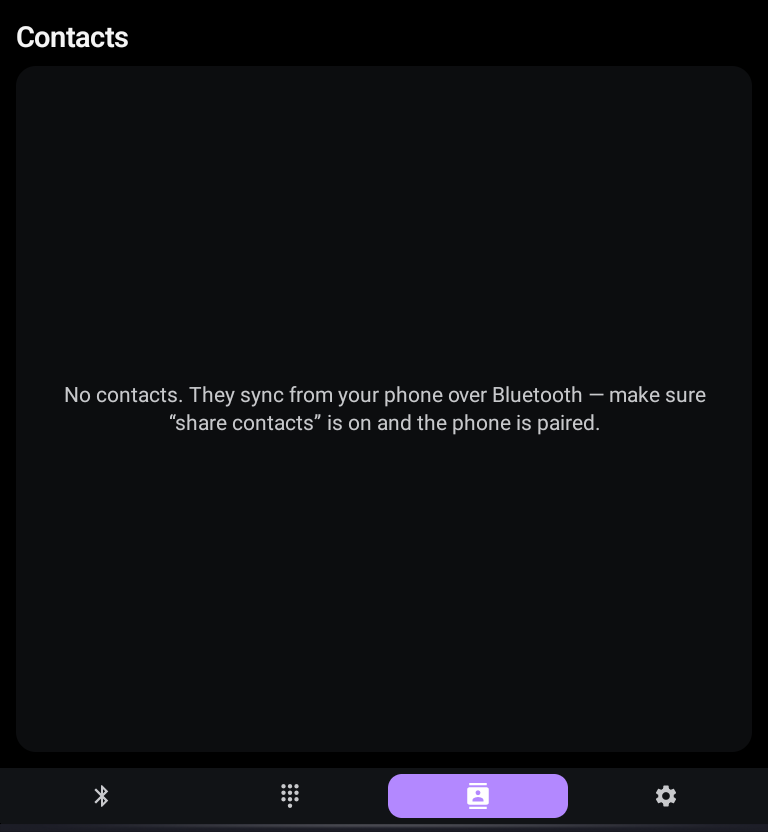
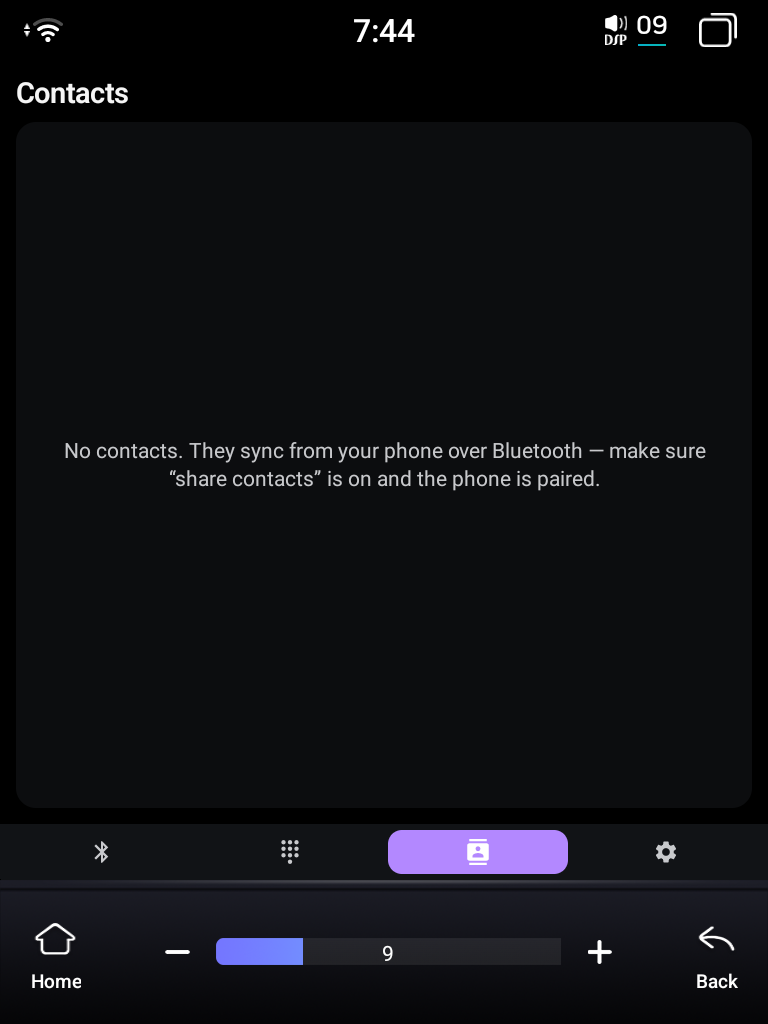
Default theme to System; full uncropped screenshots (demo devices, "Toyota Rav4")
- Theme now defaults to System (follow the unit's day/night) instead of Dark.
- Screenshots: stop cropping — all four are now full device frames (status +
  nav bars). The settings shot shows the demo paired devices (iPhone 17 Pro /
  Pixel 10, placeholder MACs) and broadcast name "Toyota Rav4". Dropped the
  separate light-mode shot. README regrouped into a 2x2 of full screenshots.

Builds on the other instance's Material You / custom-color-picker work (6ba02f8).

diff --git a/app/src/main/kotlin/com/fytbt/MainActivity.kt b/app/src/main/kotlin/com/fytbt/MainActivity.kt
@@ -49,8 +49,8 @@ class MainActivity : ComponentActivity() {
         prefs.edit().putBoolean(NowPlayingController.KEY_CLAIM_ON_OPEN, enabled).apply()
     }
 
-    // Light / dark / follow-system. Default dark (the app was designed dark for night driving).
-    private val themeMode = MutableStateFlow(ThemeMode.DARK)
+    // Light / dark / follow-system. Default System so the unit's day/night drives it.
+    private val themeMode = MutableStateFlow(ThemeMode.SYSTEM)
     private fun setThemeMode(mode: ThemeMode) {
         themeMode.value = mode
         prefs.edit().putString("theme_mode", mode.name).apply()
@@ -143,8 +143,8 @@ class MainActivity : ComponentActivity() {
         fallbackAccent.value = prefs.getInt("fallback_accent", DEFAULT_ACCENT)
         claimOnOpen.value = prefs.getBoolean(NowPlayingController.KEY_CLAIM_ON_OPEN, true)
         themeMode.value = runCatching {
-            ThemeMode.valueOf(prefs.getString("theme_mode", ThemeMode.DARK.name)!!)
-        }.getOrDefault(ThemeMode.DARK)
+            ThemeMode.valueOf(prefs.getString("theme_mode", ThemeMode.SYSTEM.name)!!)
+        }.getOrDefault(ThemeMode.SYSTEM)
         dynamicColor.value = prefs.getBoolean("dynamic_color", false)
 
         setContent {

diff --git a/README.md b/README.md
@@ -9,23 +9,21 @@ apps rather than replacing them.
 
 ## Screenshots
 
-<p align="center"><img src="screenshots/now_playing.png" width="300" alt="Now Playing"></p>
-
 <p align="center">
-  <img src="screenshots/bluetooth.png" width="240" alt="Settings / pairing — dark">
+  <img src="screenshots/now_playing.png" width="235" alt="Now Playing">
   &nbsp;
-  <img src="screenshots/settings_light.png" width="240" alt="Settings / pairing — light">
+  <img src="screenshots/bluetooth.png" width="235" alt="Settings / pairing">
 </p>
 
 <p align="center">
-  <img src="screenshots/dialer.png" width="240" alt="Dialer">
+  <img src="screenshots/dialer.png" width="235" alt="Dialer">
   &nbsp;
-  <img src="screenshots/contacts.png" width="240" alt="Contacts">
+  <img src="screenshots/contacts.png" width="235" alt="Contacts">
 </p>
 
-<sub>Now Playing (no-art accent fallback shown), the settings/pairing pane in dark and light themes —
-the chosen accent drives every control, and the theme is Light / Dark / System — then the dialer and
-contacts. Device names and addresses are placeholders.</sub>
+<sub>Now Playing (no-art accent fallback shown), the settings/pairing pane (the chosen accent drives
+every control; theme is Light / Dark / System, with optional Material You), the dialer, and contacts.
+Paired-device names and addresses are placeholders.</sub>
 
 ## Why this exists
 